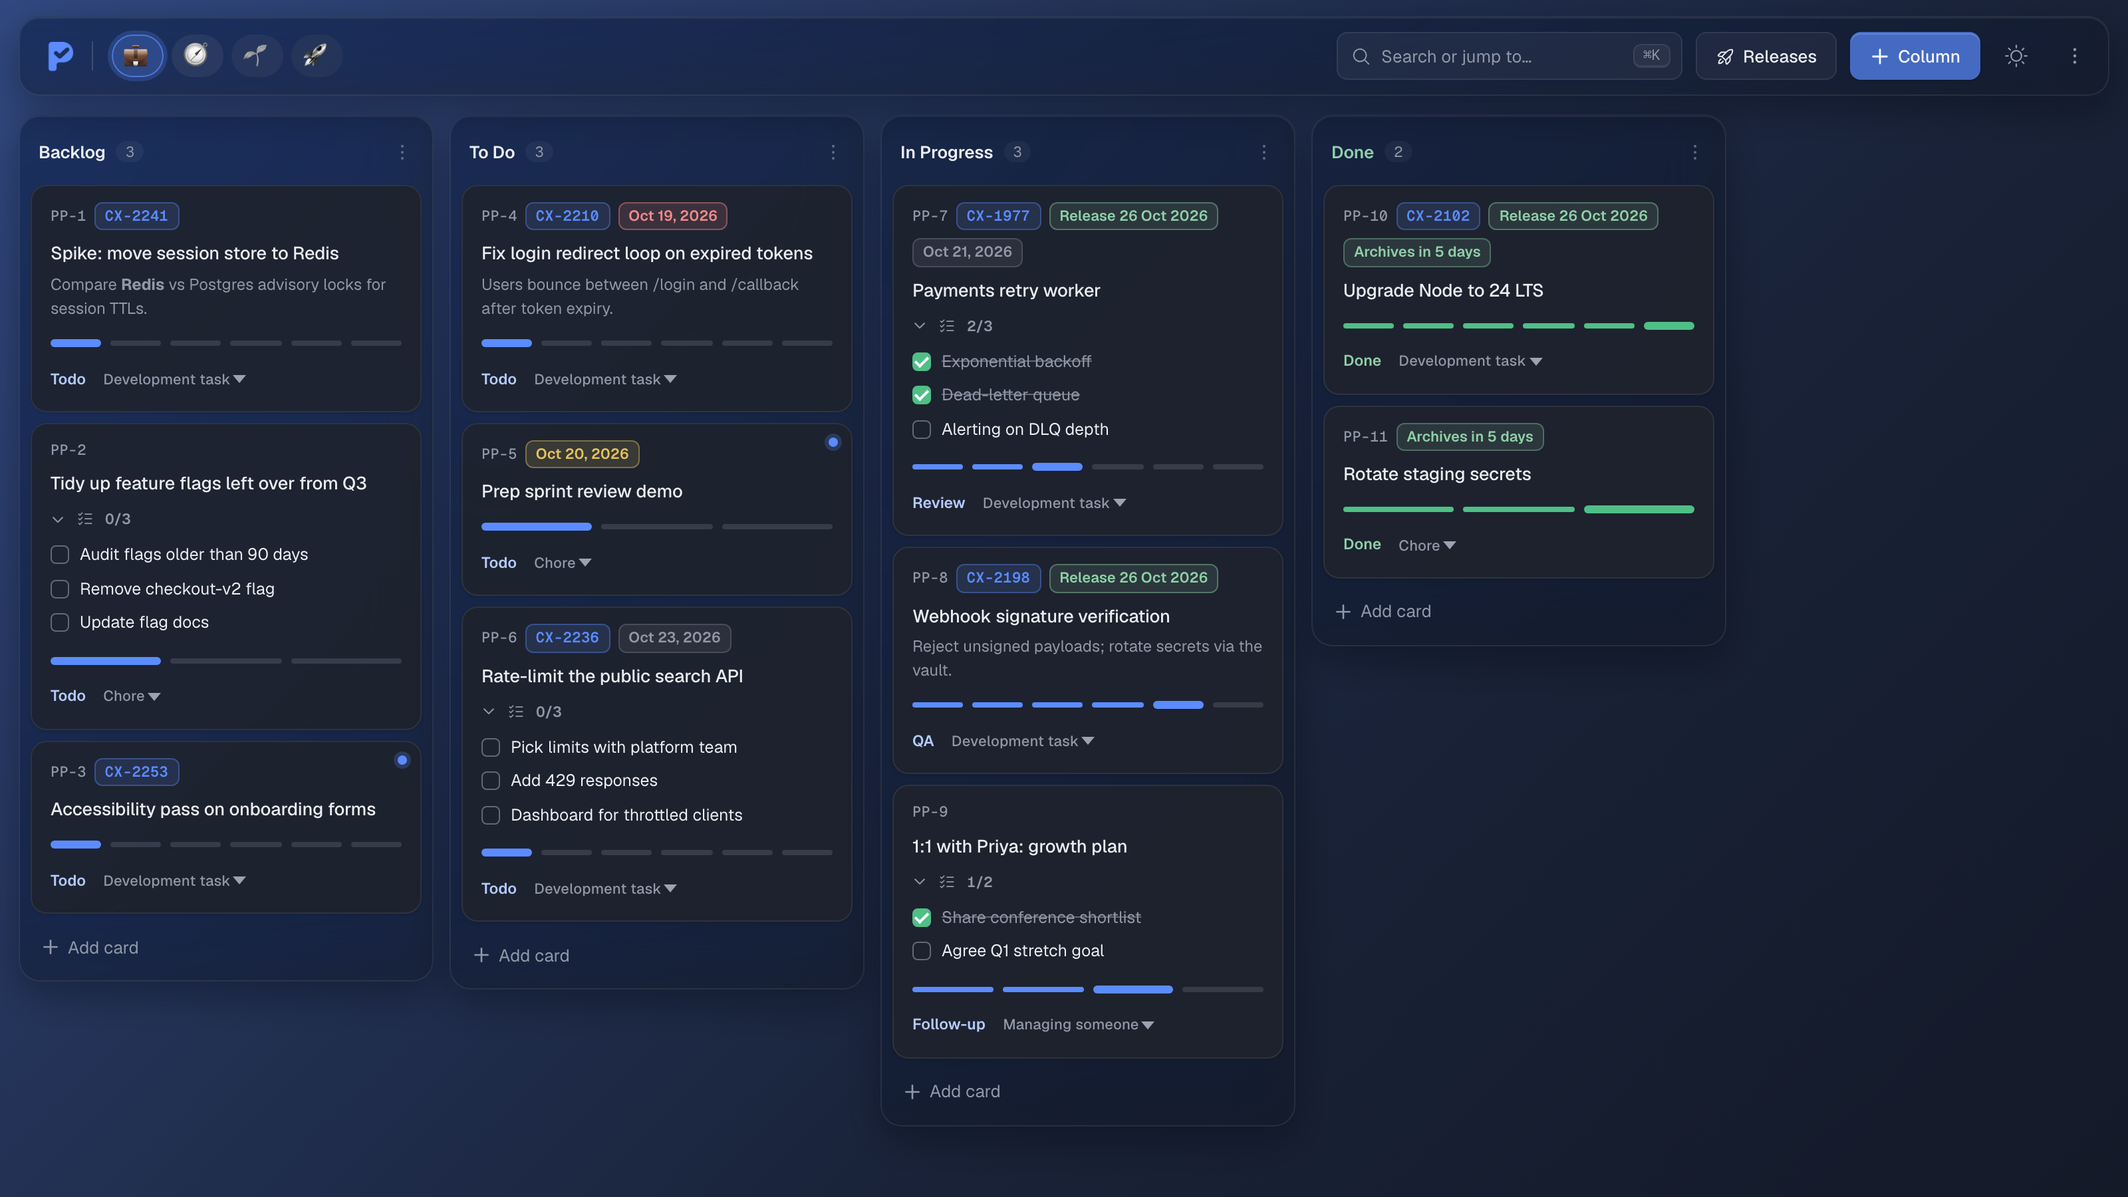
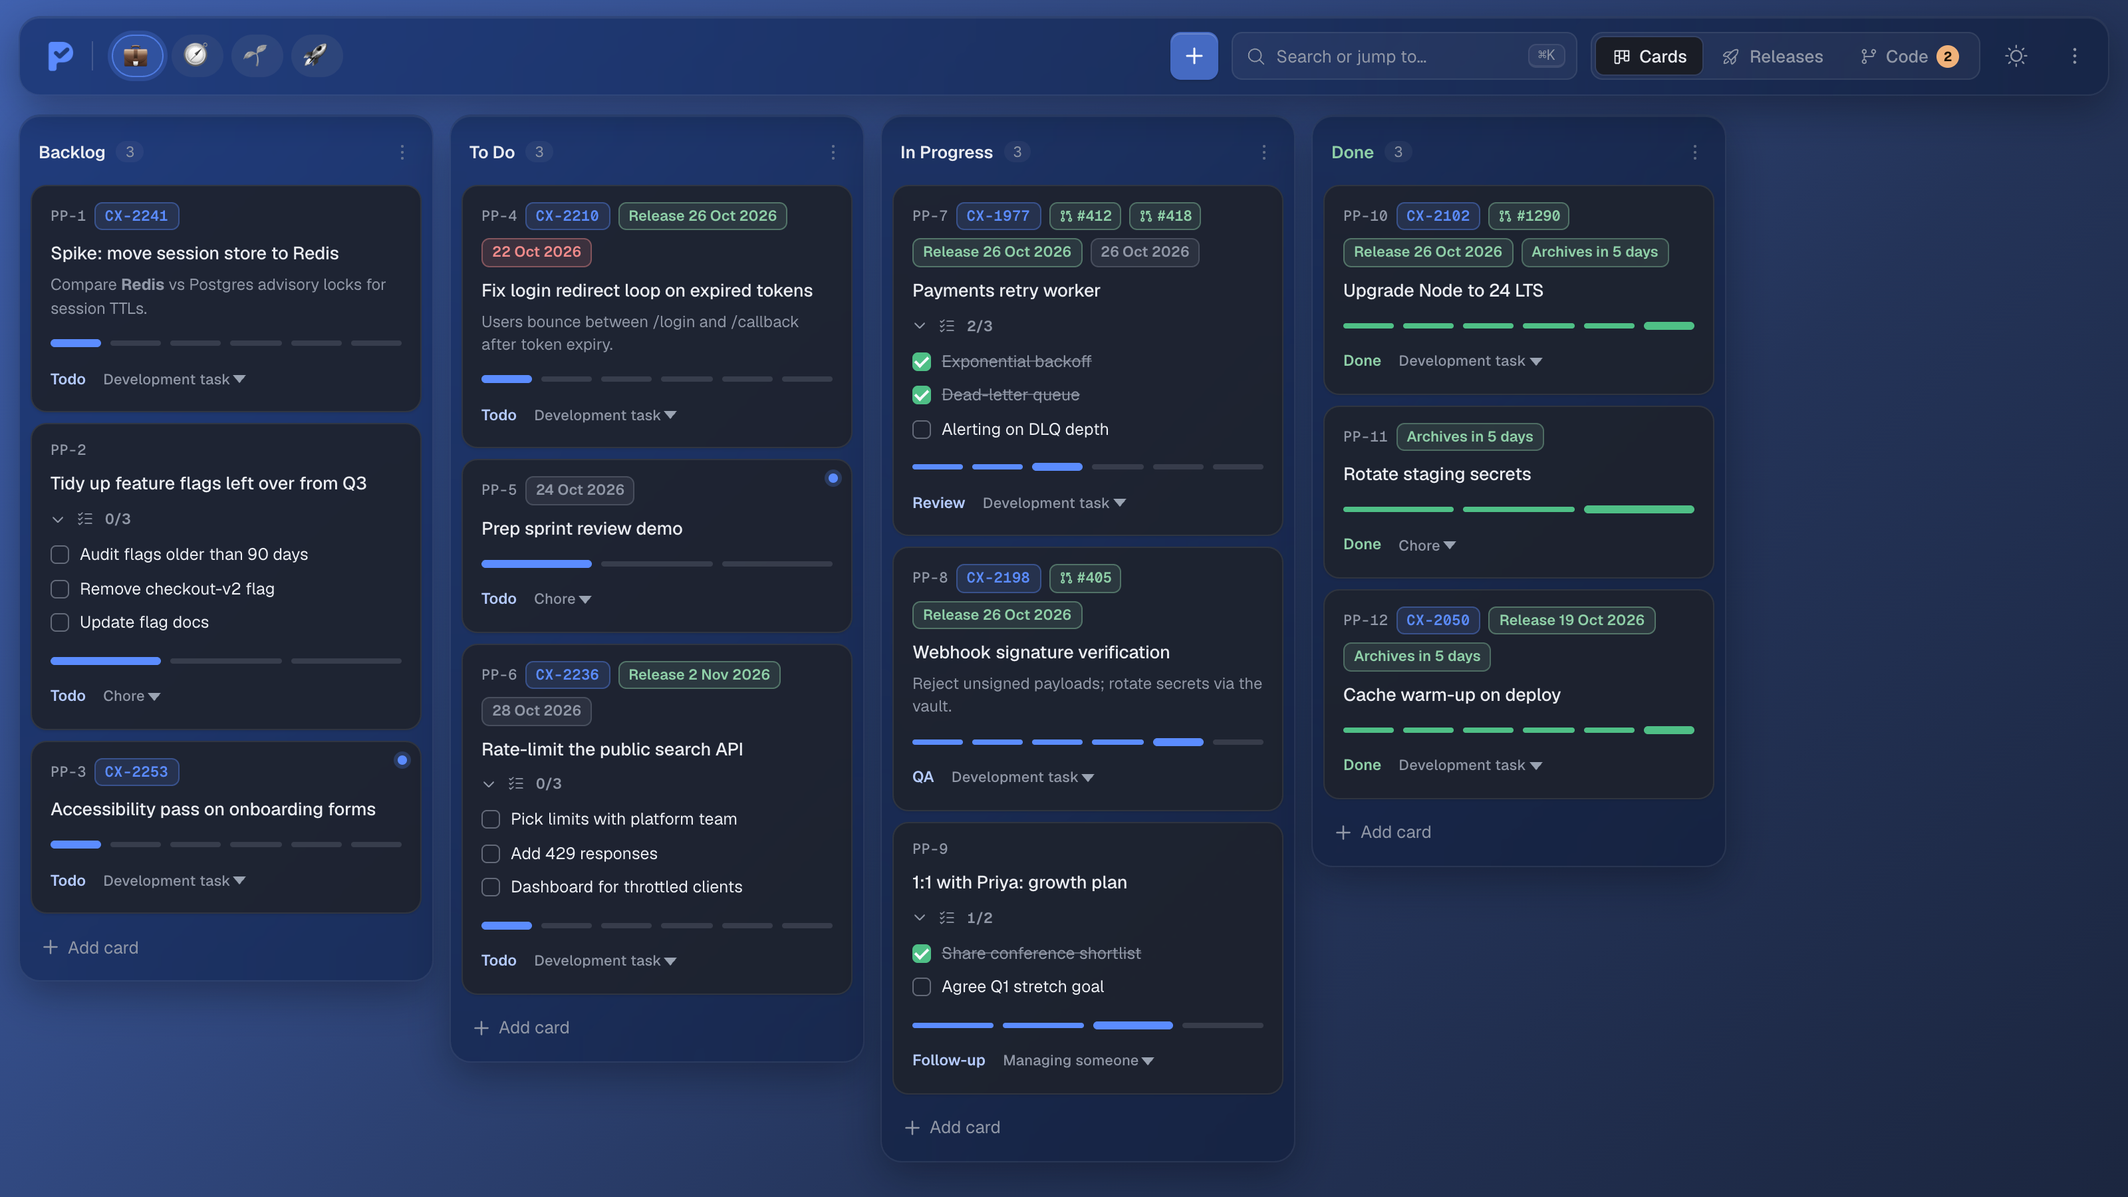
Pull from the "N behind" button, add a scroll-to-switch setting, and refresh the README screenshots.

diff --git a/components/GitPanel.vue b/components/GitPanel.vue
@@ -60,7 +60,7 @@ const git = ref<{ available: boolean; version: string | null } | null>(null)
 const repos = ref<Repo[]>([])
 const loaded = ref(false)
 const refreshing = ref(false)
-type Action = 'commit' | 'push' | 'discard' | 'refresh' | 'switch' | 'fetch'
+type Action = 'commit' | 'push' | 'pull' | 'discard' | 'refresh' | 'switch' | 'fetch'
 const busy = ref<Record<string, Action | undefined>>({})
 const messages = ref<Record<string, string>>({})
 const repoErrors = ref<Record<string, string>>({})
@@ -141,6 +141,10 @@ async function commitAndPush(repo: Repo) {
 
 function push(repo: Repo) {
   return runAction(repo, 'push', () => call<Repo>(`/api/repos/${repo.id}/push`, { method: 'POST' }))
+}
+
+function pull(repo: Repo) {
+  return runAction(repo, 'pull', () => call<Repo>(`/api/repos/${repo.id}/pull`, { method: 'POST' }))
 }
 
 function refreshRepo(repo: Repo) {
@@ -476,7 +480,16 @@ onBeforeUnmount(() => {
             <PhCaretDown :size="10" weight="bold" aria-hidden="true" />
           </button>
           <span v-if="repo.status.ahead" class="code-sync code-ahead" :title="repo.status.ahead + ' commit(s) not pushed'"><PhArrowUp :size="11" weight="bold" aria-hidden="true" />{{ repo.status.ahead }} to push</span>
-          <span v-if="repo.status.behind" class="code-sync code-behind" :title="'On the remote you don\'t have, as of the last fetch'"><PhArrowDown :size="11" weight="bold" aria-hidden="true" />{{ repo.status.behind }} behind</span>
+          <button
+            v-if="repo.status.behind"
+            type="button"
+            class="code-sync code-behind code-pull"
+            :disabled="!!busy[repo.id] || !repo.status.upstream"
+            :title="'Pull ' + repo.status.behind + ' commit' + (repo.status.behind === 1 ? '' : 's') + ' from ' + repo.status.upstream + ' (fast-forward only)'"
+            @click="pull(repo)"
+          >
+            <PhArrowDown :size="11" weight="bold" aria-hidden="true" />{{ busy[repo.id] === 'pull' ? 'Pulling…' : repo.status.behind + ' behind' }}
+          </button>
           <span class="spacer"></span>
           <span v-for="chip in changeChips(repo.status)" :key="chip.code" class="code-chip" :data-code="chip.code" :title="chip.title">{{ chip.label }}</span>
           <span v-if="!repo.status.files.length" class="code-chip code-chip-clean"><PhCheck :size="11" weight="bold" aria-hidden="true" />Clean</span>

diff --git a/composables/usePreferences.ts b/composables/usePreferences.ts
@@ -7,6 +7,7 @@ export type MotionPref = 'snappy' | 'normal' | 'relaxed' | 'off'
 export type DensityPref = 'comfortable' | 'compact'
 export type SurfacePref = 'glass' | 'solid'
 export type ElasticityPref = 'loose' | 'normal' | 'firm' | 'none'
+export type ScrollSwitchPref = 'on' | 'off'
 
 export interface Preferences {
   theme: ThemePref
@@ -14,6 +15,8 @@ export interface Preferences {
   density: DensityPref
   surface: SurfacePref
   elasticity: ElasticityPref
+  /** Scrolling past a board's edge moves to the next board */
+  scrollSwitch: ScrollSwitchPref
 }
 
 export const THEME_OPTIONS: { id: ThemePref; label: string }[] = [
@@ -51,10 +54,15 @@ export const ELASTICITY_OPTIONS: { id: ElasticityPref; label: string; distance: 
   { id: 'none', label: 'None', distance: 1, stretch: 0 },
 ]
 
+export const SCROLL_SWITCH_OPTIONS: { id: ScrollSwitchPref; label: string }[] = [
+  { id: 'on', label: 'On' },
+  { id: 'off', label: 'Off' },
+]
+
 /** Kept in sync with the pre-paint script in nuxt.config.ts. */
 export const PREFS_STORAGE_KEY = 'peteyplan-prefs'
 
-const DEFAULTS: Preferences = { theme: 'system', motion: 'normal', density: 'comfortable', surface: 'glass', elasticity: 'normal' }
+const DEFAULTS: Preferences = { theme: 'system', motion: 'normal', density: 'comfortable', surface: 'glass', elasticity: 'normal', scrollSwitch: 'on' }
 
 function pick<T extends string>(value: unknown, options: { id: T }[], fallback: T): T {
   return options.some((option) => option.id === value) ? value as T : fallback
@@ -69,6 +77,7 @@ function readStored(): Preferences {
       density: pick(raw.density, DENSITY_OPTIONS, DEFAULTS.density),
       surface: pick(raw.surface, SURFACE_OPTIONS, DEFAULTS.surface),
       elasticity: pick(raw.elasticity, ELASTICITY_OPTIONS, DEFAULTS.elasticity),
+      scrollSwitch: pick(raw.scrollSwitch, SCROLL_SWITCH_OPTIONS, DEFAULTS.scrollSwitch),
     }
   } catch {
     return { ...DEFAULTS }

diff --git a/app.vue b/app.vue
@@ -81,6 +81,7 @@ import {
 import {
   DENSITY_OPTIONS,
   ELASTICITY_OPTIONS,
+  SCROLL_SWITCH_OPTIONS,
   MOTION_OPTIONS,
   SURFACE_OPTIONS,
   THEME_OPTIONS,
@@ -2760,7 +2761,8 @@ function onBoardWheel(event: WheelEvent) {
 
   const index = boards.value.findIndex((entry) => entry.id === activeBoardId.value)
   const neighbour = index < 0 ? undefined : boards.value[index + direction]
-  if (!neighbour || switchingBoardId.value) return
+  // With scroll-to-switch off, the edge is just the end of the board.
+  if (!neighbour || switchingBoardId.value || prefs.value.scrollSwitch === 'off') return
   event.preventDefault()
   // At the board's edge mid-pan — hold while that scroll (or its momentum) carries on,
   // so only a fresh scroll after a pause pulls in the next board.
@@ -3491,6 +3493,22 @@ onBeforeUnmount(() => {
           </div>
         </div>
         <div class="setting-row">
+          <div class="setting-label">
+            <h3>Scroll to switch boards</h3>
+            <p>Scrolling past the first or last column moves to the previous or next board. Turn it off to keep the wheel on this board.</p>
+          </div>
+          <div class="segmented" role="radiogroup" aria-label="Scroll to switch boards">
+            <button
+              v-for="option in SCROLL_SWITCH_OPTIONS"
+              :key="option.id"
+              type="button"
+              role="radio"
+              :aria-checked="prefs.scrollSwitch === option.id"
+              @click="prefs.scrollSwitch = option.id"
+            >{{ option.label }}</button>
+          </div>
+        </div>
+        <div v-if="prefs.scrollSwitch === 'on'" class="setting-row">
           <div class="setting-label">
             <h3>Edge elasticity</h3>
             <p>Scrolling past a board's edge stretches it and pulls in the next board. With None, scrolling past the edge switches boards straight away.</p>

diff --git a/server/utils/git.ts b/server/utils/git.ts
@@ -276,6 +276,25 @@ export function gitSwitch(root: string, branch: string, mode: 'local' | 'create'
   })
 }
 
+/**
+ * Catch up with the upstream branch. Fast-forward only: it never merges or
+ * rebases, so it can't leave the working copy mid-conflict.
+ */
+export function gitPull(root: string): Promise<void> {
+  return serial(root, async () => {
+    const upstream = (await run(root, ['rev-parse', '--abbrev-ref', '--symbolic-full-name', '@{u}']).catch(() => '')).trim()
+    if (!upstream) throw new GitError('This branch has no upstream to pull from yet. Push it first.')
+    try {
+      await run(root, ['pull', '--ff-only', '--no-rebase'], PUSH_TIMEOUT_MS)
+    } catch (err) {
+      if (err instanceof GitError && /fast-forward|diverg/i.test(err.message)) {
+        throw new GitError(`Your branch and ${upstream} have both moved on, so they can't be lined up automatically. Merge or rebase them in a terminal.`, 409)
+      }
+      throw err
+    }
+  })
+}
+
 /** Refresh remote branches and ahead/behind counts. */
 export function gitFetch(root: string): Promise<void> {
   return serial(root, async () => { await run(root, ['fetch', '--all', '--prune'], PUSH_TIMEOUT_MS) })

diff --git a/assets/css/main.css b/assets/css/main.css
@@ -3148,6 +3148,19 @@ dialog.confirm-dialog { width: min(420px, calc(100vw - 32px)); }
 .code-repo-meta .code-branch { font-size: 12px; padding: 4px 9px; max-width: 100%; min-width: 0; }
 .code-branch-label { min-width: 0; overflow: hidden; text-overflow: ellipsis; }
 .code-sync { display: inline-flex; align-items: center; gap: 3px; font-size: 11px; white-space: nowrap; }
+button.code-pull {
+  appearance: none;
+  font: inherit;
+  font-size: 11px;
+  font-weight: 600;
+  padding: 3px 8px;
+  border-radius: 6px;
+  border: 1px solid color-mix(in srgb, var(--accent) 35%, transparent);
+  background: color-mix(in srgb, var(--accent) 10%, transparent);
+  cursor: pointer;
+}
+button.code-pull:hover:not(:disabled) { background: color-mix(in srgb, var(--accent) 20%, transparent); }
+button.code-pull:disabled { cursor: default; opacity: 0.6; }
 .code-chip {
   display: inline-flex;
   align-items: center;

diff --git a/server/api/repos/[id]/pull.post.ts b/server/api/repos/[id]/pull.post.ts
@@ -1,0 +1,8 @@
+import { gitPull } from '../../../utils/git'
+import { repoInfo, requireRepo, withGit } from '../../../utils/repo'
+
+export default defineEventHandler(async (event) => {
+  const repo = requireRepo(event)
+  await withGit(() => gitPull(repo.path))
+  return repoInfo(repo)
+})

diff --git a/README.md b/README.md
@@ -123,7 +123,7 @@ docker compose build --no-cache --progress=plain 2>&1 | tail -40
 <details>
 <summary><strong><code>apt-get</code> fails with exit code 100</strong></summary>
 
-This only happens with the [git override](#git-integration) (`docker-compose.git.yml`). That's the one build that installs git, ssh and ca-certificates from the Debian mirrors (`deb.debian.org`) for the **Code** panel. The plain `docker compose up -d --build` doesn't use apt, so it can't hit this. Exit code 100 means apt couldn't download or verify the packages. It isn't specific to x64, Apple silicon or Windows. Look for one of these just above the error:
+This only happens with the [git override](#git-integration) (`docker-compose.git.yml`). That's the one build that installs git, ssh and ca-certificates from the Debian mirrors (`deb.debian.org`) for the **Code** view. The plain `docker compose up -d --build` doesn't use apt, so it can't hit this. Exit code 100 means apt couldn't download or verify the packages. It isn't specific to x64, Apple silicon or Windows. Look for one of these just above the error:
 
 | Message | Cause | Fix |
 | ------- | ----- | --- |
@@ -187,26 +187,38 @@ Something else is listening on 3000. Run PeteyPlan on another port (see [Run on 
 - **Pull requests**: paste PR links into a card's dialog (GitHub, GitLab, Bitbucket, Azure DevOps or any link). They show as `#123` chips on the card that open the PR, and as a count on the card's row in its release. Search finds cards by PR number or repo.
 - **Checklists** inside cards: tick items on the card, quick-add from the card footer, or edit and reorder them in the card dialog.
 - Work types with their own progress stages, shown as a stage track. Hover a segment to see the stage, click to set it. Development task, Chore and Managing someone come built in. Rename, reorder, add or remove types and their stages under **Settings → Work types**. Every type runs from Todo to Done; cards on a removed stage step back to the one before it, and cards of a removed type move to the first type.
-- **Releases** group cards into a weekly release with preprod and prod Jira tickets. A release is shared by every board by default, so it can collect cards from all of them, or it can be pinned to one board. Drag cards onto a folder or pick one with the **Release** selector in the card dialog. Each folder shows its progress, flags **Past due** once prod go-live has passed, and keeps cards even after they archive. **Mark done** moves it to the **Done** tab and locks its cards, and can optionally mark every unfinished card Done too. **Reopen** brings it back.
-- **Code**: link one or more local project folders to a board, then see its branch, pending changes and unpushed commits from the top bar. Click the branch to switch, check out a remote branch, create a new one, or fetch. Pick folders with **Browse…** (on Windows this lists your drives and WSL distros). **Commit & push** stages everything and pushes in one click, and **Discard…** throws away local edits, with a checkbox for also deleting new untracked files. See [Git integration](#git-integration).
+- **Releases** group cards into a weekly release with preprod and prod Jira tickets. A release is shared by every board by default, so it can collect cards from all of them, or it can be pinned to one board. Switch to **Releases** in the top bar to see every folder full-screen. To add a card, hold it over the **Releases** tab while dragging and drop it on a folder, or pick one with the **Release** selector in the card dialog. Each folder shows its progress, flags **Past due** once prod go-live has passed, and keeps cards even after they archive. **Mark done** moves it to the **Done** tab and locks its cards, and can optionally mark every unfinished card Done too. **Reopen** brings it back.
+- **Code**: link one or more local project folders to a board, then switch to **Code** in the top bar to see each one's branch, changed files and unpushed commits. Click the branch to switch, check out a remote branch, create a new one, or fetch. When the branch is behind its remote, click **N behind** to pull. It only fast-forwards, so if both sides have new commits it stops and leaves the merge to you. Add folders with **+ → Link repo**: the folder browser tags git repos and marks the ones already linked (on Windows it lists your drives and WSL distros). **Commit & push** stages everything and pushes in one click, and **Discard…** throws away local edits, with a checkbox for also deleting new untracked files. See [Git integration](#git-integration).
 - Soft-delete to an archive you can restore from. An unread dot marks cards nobody has opened yet.
+
+<p align="center">
+  <picture>
+    <source media="(prefers-color-scheme: light)" srcset="docs/screenshot-releases-light.png">
+    <img src="docs/screenshot-releases-dark.png" alt="The Releases view with three upcoming release folders and their cards" width="49%">
+  </picture>
+  <picture>
+    <source media="(prefers-color-scheme: light)" srcset="docs/screenshot-code-light.png">
+    <img src="docs/screenshot-code-dark.png" alt="The Code view with three linked repos showing branches, changed files and a commit form" width="49%">
+  </picture>
+</p>
 
 **Built for speed**
 - Add cards inline at the bottom of a column: type, press <kbd>Enter</kbd>, keep going.
+- The **+** beside search follows the view: a card, column or board on **Cards**, a release on **Releases**, and a linked repo on **Code**.
 - Press <kbd>⌘K</kbd> on Mac, <kbd>Ctrl</kbd>+<kbd>K</kbd> elsewhere, or <kbd>/</kbd> to open the command palette. It searches cards on every board (archived ones too) by title, ref, description, Jira key, column, stage or checklist item. It also finds boards and columns, and runs actions such as new card, new column, archive, releases, theme and settings. Pick **Filter this board** to keep only matching cards on screen, and clear the filter from the chip in the top bar.
 - Jira keys like `CX-1831` link straight to the issue wherever they appear.
 
 **Looks the way you like**
 - Frosted-glass interface themed by the active board: its colour lights the backdrop and tints the buttons, links, progress, logo and tab icon (shades are adjusted automatically so text stays readable).
 - Switching boards is a quick slide that takes about 100ms however many boards it passes.
-- **Settings → Appearance**: Day, Night or System theme (or the sun/moon button), Glass or Solid surfaces, transition speed, and comfortable or compact density. Respects your OS reduced-motion and reduced-transparency settings.
+- **Settings → Appearance**: Day, Night or System theme (or the sun/moon button), Glass or Solid surfaces, transition speed, whether scrolling past the first or last column switches boards, and comfortable or compact density. Respects your OS reduced-motion and reduced-transparency settings.
 
 ## Git integration
 
-The **Code** panel runs the `git` installed on the machine that runs the PeteyPlan server. It uses your own git config and credentials, never prompts, and only touches folders you've linked.
+The **Code** view runs the `git` installed on the machine that runs the PeteyPlan server. It uses your own git config and credentials, never prompts, and only touches folders you've linked.
 
 - **Running directly** (`npm run dev`, or `npm run build && node .output/server/index.mjs`) works out of the box: link any folder on your machine.
-- **Windows**: Git for Windows handles normal folders. Folders inside WSL (`\\wsl.localhost\<distro>\…`, listed under **WSL** in **Browse…**) run the distro's own git through `wsl.exe`, so they use your Linux git config and SSH keys.
+- **Windows**: Git for Windows handles normal folders. Folders inside WSL (`\\wsl.localhost\<distro>\…`, listed under **WSL** in the folder browser) run the distro's own git through `wsl.exe`, so they use your Linux git config and SSH keys.
 - **Docker** can't see your folders by default. Start it with the git override, which mounts your home directory (or `CODE_DIR` from `.env.example`) at the same path plus `~/.ssh`, `~/.gitconfig` and `~/.git-credentials` (read-only), and binds the app to `127.0.0.1` only:
 
   ```bash
@@ -215,7 +227,7 @@ The **Code** panel runs the `git` installed on the machine that runs the PeteyPl
 
   Only this override installs git into the image, so the plain `docker compose up` never needs the Debian package mirrors. If that build fails at `apt-get` with exit code 100, see [Troubleshooting the Docker build](#troubleshooting-the-docker-build).
 
-  HTTPS remotes use the mounted `~/.git-credentials` (your name/email come along too; host-only settings like the `gh` credential helper or a proxy are ignored). SSH remotes work with keys that have no passphrase. **Browse…** starts at your home directory.
+  HTTPS remotes use the mounted `~/.git-credentials` (your name/email come along too; host-only settings like the `gh` credential helper or a proxy are ignored). SSH remotes work with keys that have no passphrase. The folder browser starts at your home directory.
 
   Behind an intercepting corporate proxy the plain-HTTP Debian mirrors fail. Drop the proxy's CA as `.corp-ca.pem` (gitignored, never committed) and rebuild — the image then installs git over HTTPS:
 
@@ -224,7 +236,7 @@ The **Code** panel runs the `git` installed on the machine that runs the PeteyPl
   docker compose -f docker-compose.yml -f docker-compose.git.yml up -d --build
   ```
 
-Commit & push, Push and Discard act on your real working copy. Anyone who can reach the app can use them, so don't expose PeteyPlan beyond your own machine while folders are linked. Unlinking a folder never touches its files.
+Commit & push, Push, Pull and Discard act on your real working copy. Anyone who can reach the app can use them, so don't expose PeteyPlan beyond your own machine while folders are linked. Unlinking a folder never touches its files.
 
 ## MCP server
 
